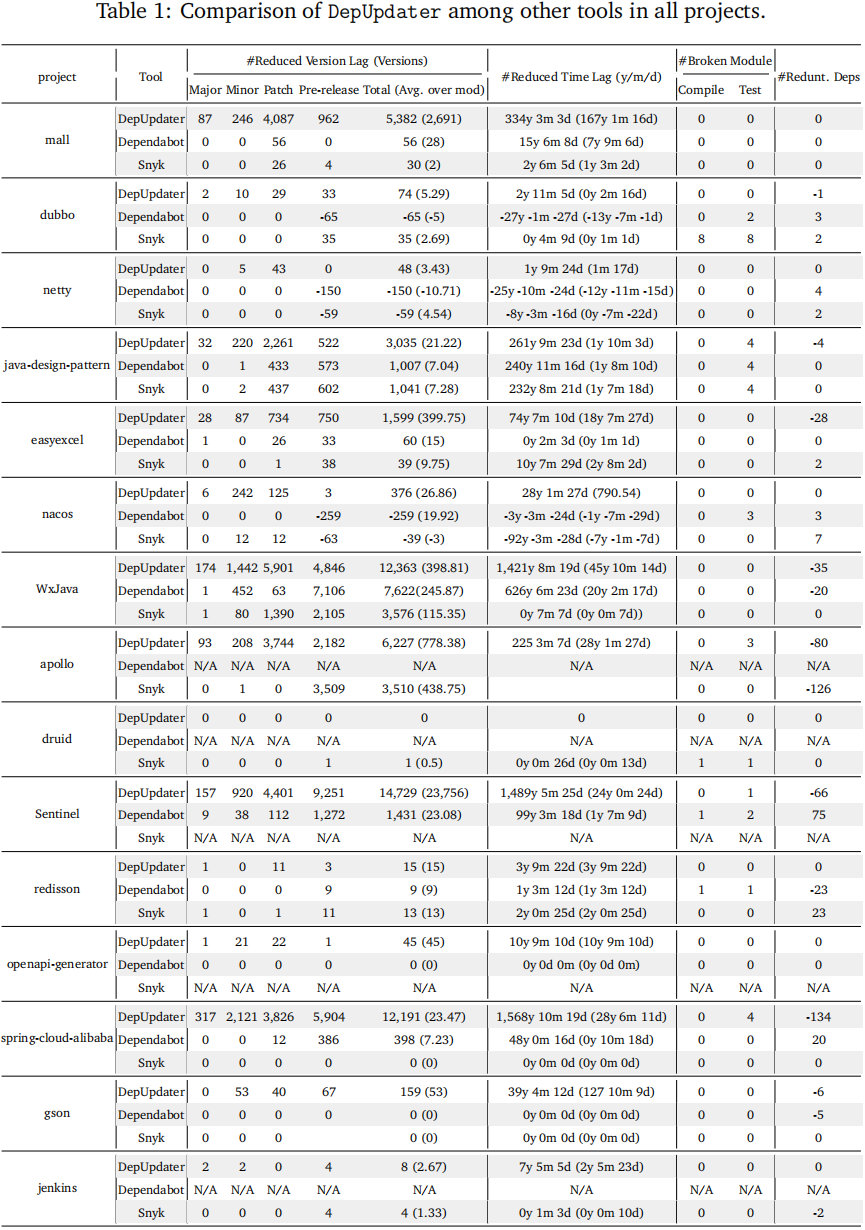
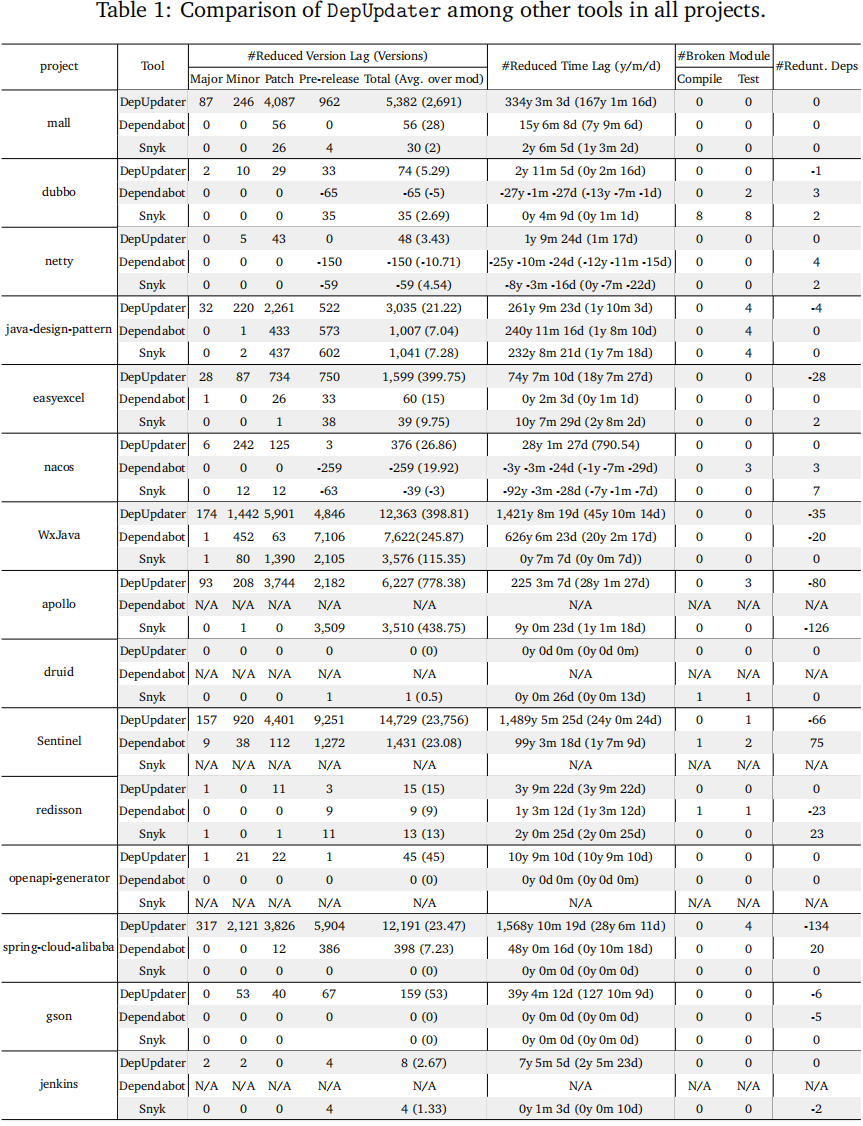
revise table

Changed region(s): [[0.0, 0.0, 0.9942, 1.0]]

diff --git a/README.md b/README.md
@@ -157,12 +157,12 @@ Data for RQs is in the `RQs_data` folder, the structure of this folder is as fol
 
 We appreciate the suggestions in the Metareview and Review A to provide the data at the project level. We applied the data from different tools to each project as follows:
 
-
-![image](img/RQ1_Extend_Table.png)
+![Extend_Table](img/RQ1_Extend_Table.png)
 
 Note: 
 1. Because Dependabot and Snyk do not consider pruning during the upgrades, they often introduce redundant dependencies, which can increase overall technical lag. For example, Dependabot increased the total version lag by 150 versions for the Netty project.
 2. We have not listed the data for GoblinUpdater above, as all of its data points are zero.
+3. After upgrades by Dependabot, three projects (Apollo, Jenkins, Druid) were unable to generate a dependency tree. After upgrades by Snyk, two projects (Sentinel, Jenkins) could not generate a dependency tree. Since we compute technical lag based on the dependency tree, we have listed the data for these projects as N/A.
 
 ## 
 > [!IMPORTANT]
